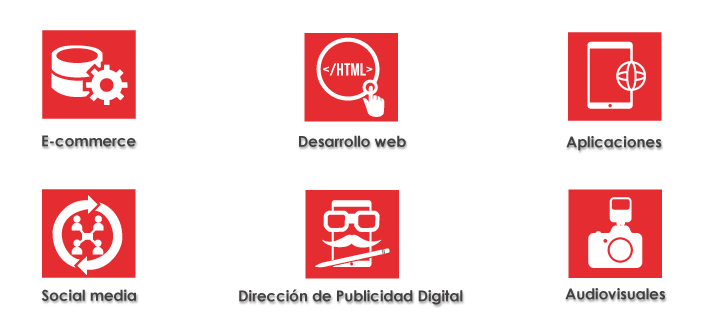
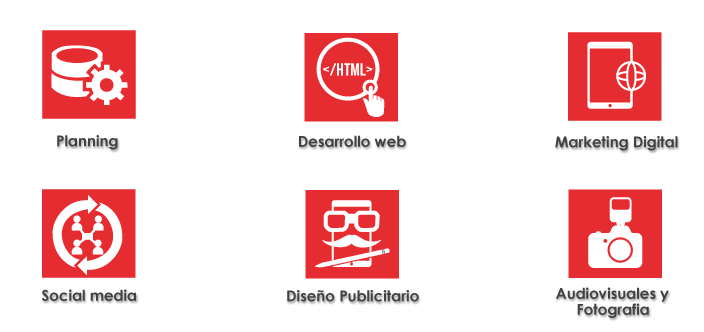
Cambio de imagen de servicios y se quitó modernizer

diff --git a/js/init.js b/js/init.js
@@ -8,12 +8,6 @@ $(".disabled").click(function(event) {
   event.preventDefault();
 });
 
-/* ----------------- */
-
-
-/* SlidesJS */
-/* ----------------- */
-
 $(function(){
       $(".banner").slidesjs({
 		width: 1200,
@@ -50,58 +44,7 @@ $(function(){
     }
       });
     });
-/* ----------------- */
-
-
-/* Mobile Navigation */
-/* ----------------- */
-
 jQuery('.SL_swap').meanmenu();
-
-/* ----------------- */
-
-/*  Moderizr Universal Placeholder Text */
-/* ----------------- */
-jQuery(function() {
-        // check placeholder browser support
-        if (!Modernizr.input.placeholder) {
-
-            // set placeholder values
-            jQuery(this).find('[placeholder]').each(function() {
-                if (jQuery(this).val() == '') { // if field is empty
-                    jQuery(this).val( jQuery(this).attr('placeholder') );
-                }
-            });
-
-            // focus and blur of placeholders
-            jQuery('[placeholder]').focus(function() {
-                if (jQuery(this).val() == jQuery(this).attr('placeholder')) {
-                    jQuery(this).val('');
-                    jQuery(this).removeClass('placeholder');
-                }
-            }).blur(function() {
-                if (jQuery(this).val() == '' || jQuery(this).val() == jQuery(this).attr('placeholder')) {
-                    jQuery(this).val(jQuery(this).attr('placeholder'));
-                    jQuery(this).addClass('placeholder');
-                }
-            });
-
-            // remove placeholders on submit
-            jQuery('[placeholder]').closest('form').submit(function() {
-                jQuery(this).find('[placeholder]').each(function() {
-                    if (jQuery(this).val() == jQuery(this).attr('placeholder')) {
-                        jQuery(this).val('');
-                    }
-                })
-            });
-
-        }
-    });
-
-/* ----------------- */
-
-/* WayPoints */
-/* ----------------- */
 
 $('.home-block').waypoint(function(direction) {
   if (direction === "down") {
@@ -150,11 +93,6 @@ $( ".subNavigation a" ).click(function() {
   $.waypoints('refresh');
 });
 
-/* ----------------- */
-
-/* Scrollto */
-/* ----------------- */
-
 jQuery(function() {
 	$('.subNavScroll, .SL_swap').localScroll({
 		   hash:true,
@@ -163,12 +101,6 @@ jQuery(function() {
 		});
 	});
 
-/* ----------------- */
-
-
-
-/* Scrolling Thumbnails */
-/* ----------------- */
 $("#thumbSlider").owlCarousel({
   itemsDesktop : [1299,4],
   itemsDesktopSmall : [980,4],
@@ -181,26 +113,6 @@ $("#thumbSlider").owlCarousel({
 	scrollPerPage: true,
 	lazyLoad: true
 });
-/*
-$("#thumbSliderMini").owlCarousel({
-	items : 3,
-    itemsDesktop : [1299,3],
-    itemsDesktopSmall : [980,2],
-    itemsTablet: [768,3],
-    itemsTabletSmall: false,
-    itemsMobile : [479,2],
-    singleItem : false,
-	navigation: false,
-	pagination: true,
-	scrollPerPage: true,
-	lazyLoad: true
-});
-
-/* ----------------- */
-
-
-/* Gallery Popups */
-/* ----------------- */
 
 $('.gallery-item').each(function() { // the containers for all your galleries
     $(this).magnificPopup({
@@ -237,12 +149,6 @@ $('.gallery-item').each(function() { // the containers for all your galleries
     });
 }); 
 
-/* ----------------- */
-
-
-/* Client Testimonial Rotator */
-/* ----------------- */
-
 	$( function() {
 		$( '#cbp-qtrotator' ).cbpQTRotator(
 		{
@@ -255,17 +161,6 @@ $('.gallery-item').each(function() { // the containers for all your galleries
 		}
 		);
 	});
-/* ----------------- */
-
-/**
- * jQuery Unveil
- * A very lightweight jQuery plugin to lazy load images
- * http://luis-almeida.github.com/unveil
- *
- * Licensed under the MIT license.
- * Copyright 2013 Luís Almeida
- * https://github.com/luis-almeida
- */
 
 ;(function($){$.fn.unveil=function(threshold,callback){var $w=$(window),th=threshold||0,retina=window.devicePixelRatio>1,attrib=retina?"data-src-retina":"data-src",images=this,loaded;this.one("unveil",function(){var source=this.getAttribute(attrib);source=source||this.getAttribute("data-src");if(source){this.setAttribute("src",source);if(typeof callback==="function")callback.call(this);}});function unveil(){var inview=images.filter(function(){var $e=$(this),wt=$w.scrollTop(),wb=wt+$w.height(),et=$e.offset().top,eb=et+$e.height();return eb>=wt-th&&et<=wb+th;});loaded=inview.trigger("unveil");images=images.not(loaded);}$w.scroll(unveil);$w.resize(unveil);unveil();return this;};})(window.jQuery||window.Zepto);
 /* ----------------- */
@@ -399,138 +294,6 @@ $('.gallery-item').each(function() { // the containers for all your galleries
     setTimeout(scroller, 0);
   });
 })(jQuery);
-/* ----------------- */
-
-
-/*!
- * classie - class helper functions
- * from bonzo https://github.com/ded/bonzo
- * 
- * classie.has( elem, 'my-class' ) -> true/false
- * classie.add( elem, 'my-new-class' )
- * classie.remove( elem, 'my-unwanted-class' )
- * classie.toggle( elem, 'my-class' )
- */
-
-/*jshint browser: true, strict: true, undef: true */
-/*global define: false */
-
-/*( function( window ) {
-
-'use strict';
-
-// class helper functions from bonzo https://github.com/ded/bonzo
-
-function classReg( className ) {
-  return new RegExp("(^|\\s+)" + className + "(\\s+|$)");
-}
-
-// classList support for class management
-// altho to be fair, the api sucks because it won't accept multiple classes at once
-var hasClass, addClass, removeClass;
-
-if ( 'classList' in document.documentElement ) {
-  hasClass = function( elem, c ) {
-    return elem.classList.contains( c );
-  };
-  addClass = function( elem, c ) {
-    elem.classList.add( c );
-  };
-  removeClass = function( elem, c ) {
-    elem.classList.remove( c );
-  };
-}
-else {
-  hasClass = function( elem, c ) {
-    return classReg( c ).test( elem.className );
-  };
-  addClass = function( elem, c ) {
-    if ( !hasClass( elem, c ) ) {
-      elem.className = elem.className + ' ' + c;
-    }
-  };
-  removeClass = function( elem, c ) {
-    elem.className = elem.className.replace( classReg( c ), ' ' );
-  };
-}
-
-function toggleClass( elem, c ) {
-  var fn = hasClass( elem, c ) ? removeClass : addClass;
-  fn( elem, c );
-}
-
-var classie = {
-  // full names
-  hasClass: hasClass,
-  addClass: addClass,
-  removeClass: removeClass,
-  toggleClass: toggleClass,
-  // short names
-  has: hasClass,
-  add: addClass,
-  remove: removeClass,
-  toggle: toggleClass
-};
-
-// transport
-if ( typeof define === 'function' && define.amd ) {
-  // AMD
-  define( classie );
-} else {
-  // browser global
-  window.classie = classie;
-}
-
-})( window );*/
-/* ----------------- */
-
-/**
- * AnimatedHeader.min.js v1.0.0
- * http://www.codrops.com
- *
- * Licensed under the MIT license.
- * http://www.opensource.org/licenses/mit-license.php
- * 
- * Copyright 2013, Codrops
- * http://www.codrops.com
- */
-
-/*var AnimatedHeader = (function() {
- 
-    var docElem = document.documentElement,
-        header = document.querySelector( '#wrap-header' ),
-        didScroll = false,
-        changeHeaderOn = 600;
- 
-    function init() {
-        window.addEventListener( 'scroll', function( event ) {
-            if( !didScroll ) {
-                didScroll = true;
-                setTimeout( scrollPage, 0 );
-            }
-        }, false );
-    }
- 
-    function scrollPage() {
-        var sy = scrollY();
-        if ( sy >= changeHeaderOn ) {
-            classie.add( header, 'wrap-header-shrink' );
-        }
-        else {
-            classie.remove( header, 'wrap-header-shrink' );
-        }
-        didScroll = false;
-    }
- 
-    function scrollY() {
-        return window.pageYOffset || docElem.scrollTop;
-    }
- 
-    init();
- 
-})();
-*/
-/* ----------------- */
 
 /**
  * jquery.cbpQTRotator.min.js v1.0.0
@@ -543,8 +306,4 @@ if ( typeof define === 'function' && define.amd ) {
  * http://www.codrops.com
  */
 (function(c,b,e){var d=b.Modernizr;c.CBPQTRotator=function(f,g){this.$el=c(g);this._init(f)};c.CBPQTRotator.defaults={speed:700,easing:"ease",interval:8000};c.CBPQTRotator.prototype={_init:function(f){this.options=c.extend(true,{},c.CBPQTRotator.defaults,f);this._config();this.$items.eq(this.current).addClass("cbp-qtcurrent");if(this.support){this._setTransition()}this._startRotator()},_config:function(){this.$items=this.$el.children("div.cbp-qtcontent");this.itemsCount=this.$items.length;this.current=0;this.support=d.csstransitions;if(this.support){this.$progress=c('').appendTo(this.$el)}},_setTransition:function(){setTimeout(c.proxy(function(){this.$items.css("transition","opacity "+this.options.speed+"ms "+this.options.easing)},this),25)},_startRotator:function(){if(this.support){this._startProgress()}setTimeout(c.proxy(function(){if(this.support){this._resetProgress()}this._next();this._startRotator()},this),this.options.interval)},_next:function(){this.$items.eq(this.current).removeClass("cbp-qtcurrent");this.current=this.current<this.itemsCount-1?this.current+1:0;this.$items.eq(this.current).addClass("cbp-qtcurrent")},_startProgress:function(){setTimeout(c.proxy(function(){this.$progress.css({transition:"width "+this.options.interval+"ms linear",width:"100%"})},this),25)},_resetProgress:function(){this.$progress.css({transition:"none",width:"0%"})},destroy:function(){if(this.support){this.$items.css("transition","none");this.$progress.remove()}this.$items.removeClass("cbp-qtcurrent").css({position:"relative","z-index":100,"pointer-events":"auto",opacity:1})}};var a=function(f){if(b.console){b.console.error(f)}};c.fn.cbpQTRotator=function(g){if(typeof g==="string"){var f=Array.prototype.slice.call(arguments,1);this.each(function(){var h=c.data(this,"cbpQTRotator");if(!h){a("cannot call methods on cbpQTRotator prior to initialization; attempted to call method '"+g+"'");return}if(!c.isFunction(h[g])||g.charAt(0)==="_"){a("no such method '"+g+"' for cbpQTRotator instance");return}h[g].apply(h,f)})}else{this.each(function(){var h=c.data(this,"cbpQTRotator");if(h){h._init()}else{h=c.data(this,"cbpQTRotator",new c.CBPQTRotator(g,this))}})}return this}})(jQuery,window);
-
-
-/* ----------------- */
-
  });

diff --git a/index.html b/index.html
@@ -194,14 +194,14 @@
                                         <map name="Map3">
                                           <area shape="rect" coords="5,7,336,160" href="https://www.facebook.com/media/set/?set=a.209399585901031.1073741829.197194153788241&type=3" target="_blank">
                                         </map>
-<div class="job-tags">Gráfica</div>
+                                        <div class="job-tags">Gráfica</div>
                                     </div>
                                     <div class="span6">
                                         <img src="images/trabajos/trabajo2.png" border="0" usemap="#Map">
                                         <map name="Map">
                                           <area shape="rect" coords="5,6,336,161" href="https://www.youtube.com/user/dangiapublicidad" target="_blank">
                                         </map>
-<div class="job-tags">Televisión</div>
+                                        <div class="job-tags">Televisión</div>
                                   </div>
                                 </div>
                                 <div class="row-fluid">
@@ -210,7 +210,7 @@
                                         <map name="Map2">
                                           <area shape="rect" coords="2,4,334,157" href="https://www.facebook.com/media/set/?set=a.660434680697955.1073741829.459200110821414&type=3" target="_blank">
                                         </map>
-<div class="job-tags">Digital</div>
+                                        <div class="job-tags">Digital</div>
                                     </div>
                                     <div class="span6">
                                         <img src="images/trabajos/trabajo4.png">
@@ -281,8 +281,6 @@
             </div>
         </div>
         <script src="http://ajax.googleapis.com/ajax/libs/jquery/1.8.3/jquery.min.js"></script>
-        <script src="js/init.js"></script>
-        <script src="js/modernizr-2.0.6.min.js"></script>
         <script src="js/mobile-menu.js"></script>
         <script src="js/waypoints.js"></script>
         <script src="js/jquery.localscroll-1.2.7-min.js"></script>
@@ -292,6 +290,7 @@
         <script src="js/subscribe.js"></script>
         <script src="js/jquery.slides.min.js"></script>
         <script src="js/bootstrap.js"></script>
+        <script src="js/init.js"></script>
         <script>
             $(function() {
         	"use strict";
